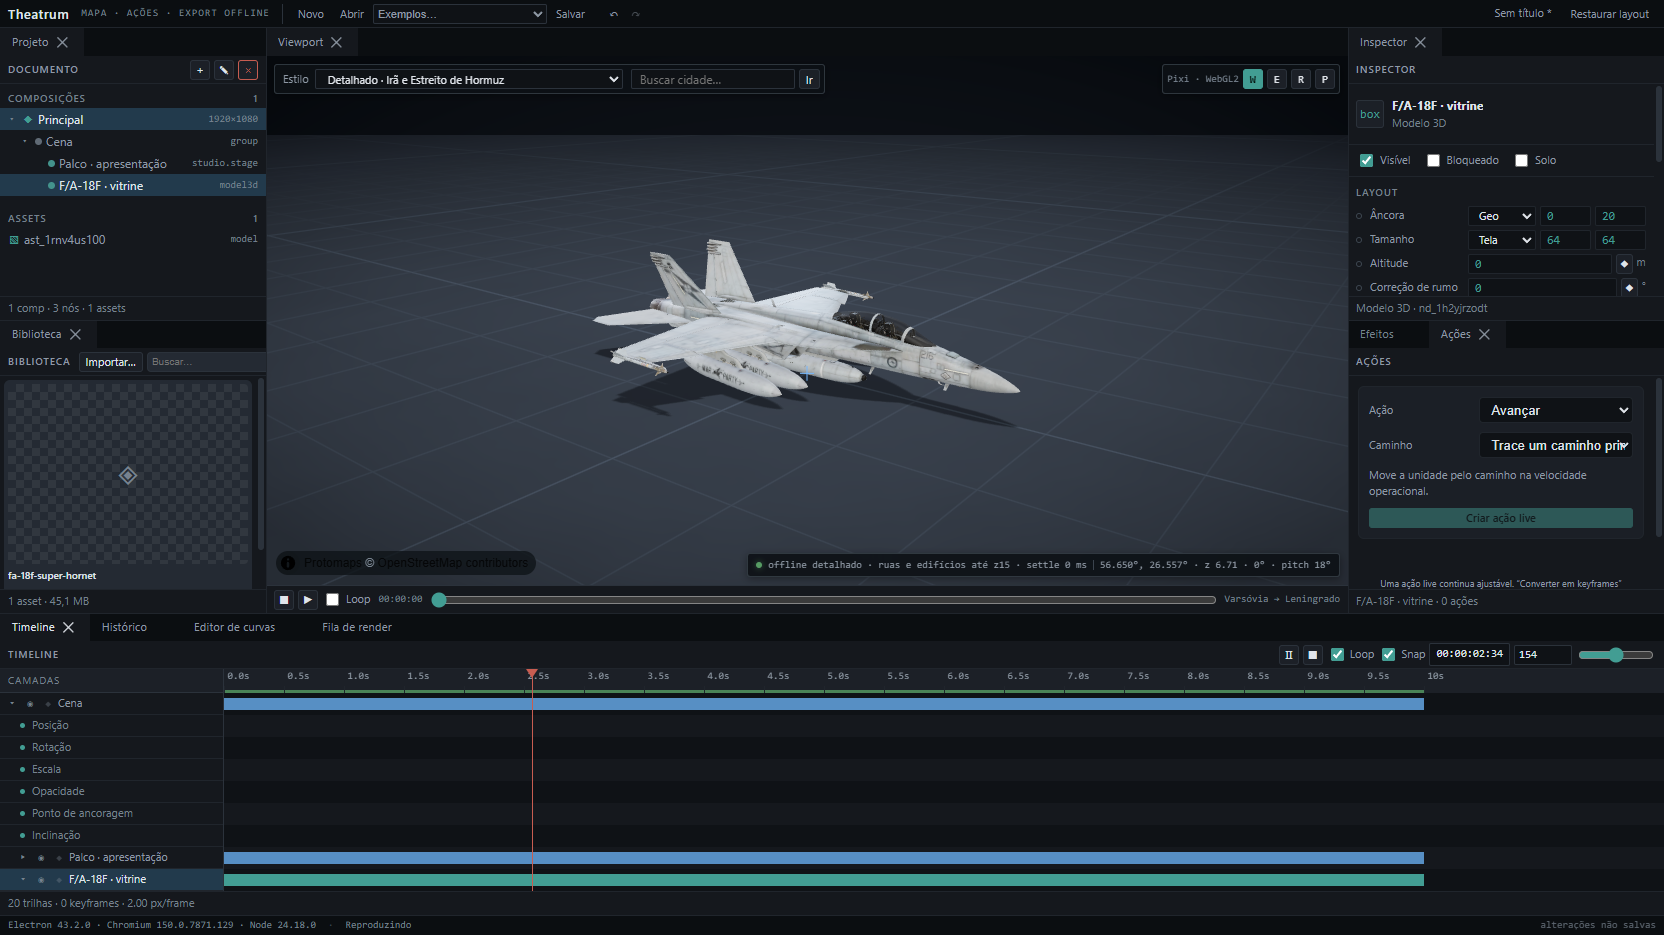
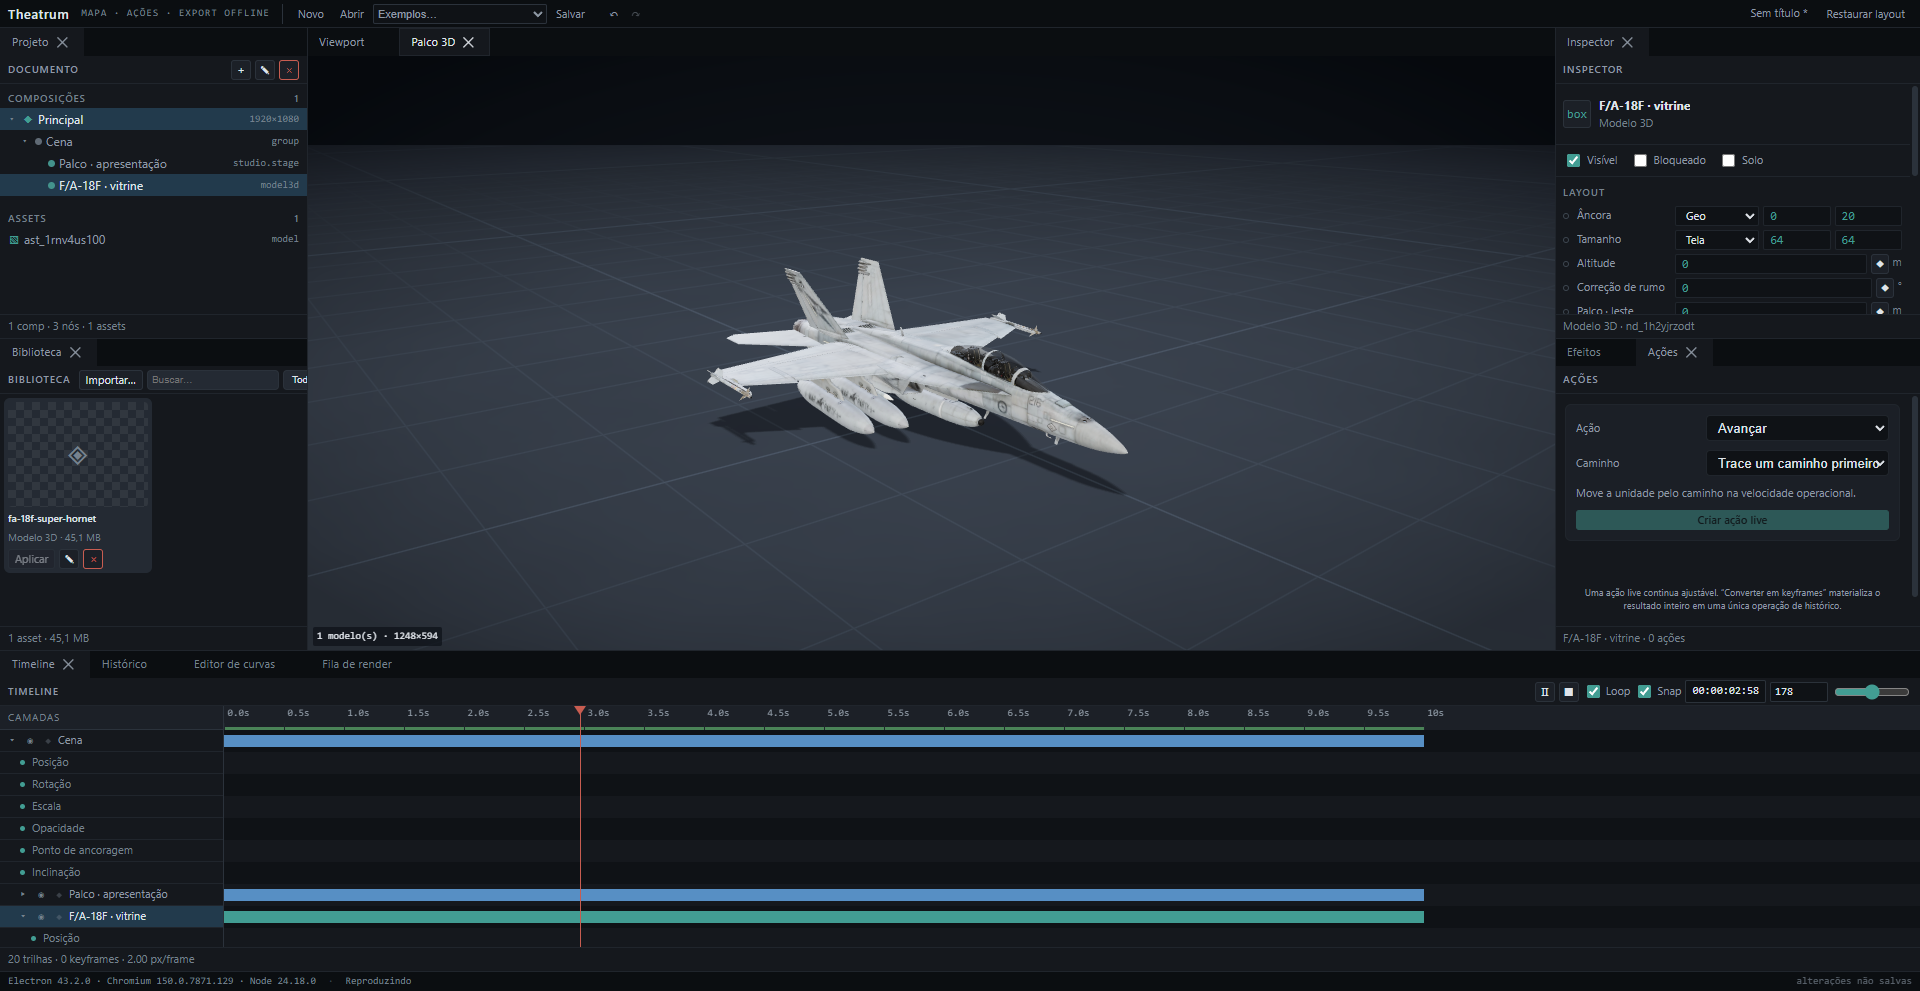
ADR-014 etapa 2: overlay Pixi proprio do palco, e os rotulos voltam
Fecha a regressao declarada na etapa 1. O painel do palco ganha a segunda
superficie — o overlay Pixi — e com ela os rotulos tecnicos (`label.callout`)
voltam a funcionar, agora no painel certo.

O quarto contexto WebGL do aplicativo. O ADR-012 mediu o orcamento: teto de 16 no
Chromium, 3,6 ms para criar, custo unico na abertura. Gastar um foi a escolha
consciente do ADR-014, porque a alternativa era o palco nao ter rotulo nenhum.

`studio-projector.ts`, novo, com as duas pecas que o layout do palco precisa:

- `createStudioProjectorPort` manda todo ponto geografico para FORA DA TELA, de
  proposito. A pergunta certa nao era "como projeto geografia no palco?" — e que
  geografia NAO EXISTE no palco. Um contorno de pais ou uma unidade ancorada em
  Kursk nao tem lugar numa vitrine de equipamento. O layout descarta (`culled`) o
  que cai fora do viewport, e no geo simplesmente nao desenha. A alternativa —
  inventar uma projecao plausivel — colocaria a Ucrania flutuando sobre o piso.
- `withStudioProjection` e o que faz o rotulo achar a asa do caca sem uma linha de
  codigo do lado dele: ele ja procura o alvo em `layout.layouts`, e aqui quem
  preenche essa entrada e a camera orbital. Isto morava no SceneOverlay como
  pos-processamento, corrigindo entradas que o projetor do mapa havia preenchido
  errado. Deixou de ser remendo: e o passe de projecao deste painel, no lugar dele.

Modelo atras da camera continua virando `culled` e nao posicao inventada —
[…]

diff --git a/apps/editor/src/panels/viewport/StudioViewport.tsx b/apps/editor/src/panels/viewport/StudioViewport.tsx
@@ -15,16 +15,30 @@
  * `SceneOverlay`: sem caneta, sem marquee, sem gizmo. No palco não se desenha
  * caminho no terreno.
  *
- * ETAPA 1 do ADR-014. Rótulos técnicos (`label.callout`), efeitos e filtros ainda
- * não desenham aqui — eles vivem no overlay Pixi, que continua no Viewport. É
- * regressão temporária declarada no ADR, e a etapa 2 a fecha.
+ * Duas superfícies, na ordem: o palco 3D no fundo, o overlay Pixi por cima. É o
+ * overlay que desenha os rótulos técnicos (`label.callout`) — e é por ele existir
+ * aqui, e não no Viewport, que o palco é um ambiente completo em vez de um fundo.
  */
 
 import { evaluate } from "@theatrum/animation";
 import { applySceneBehaviors, createBuiltinBehaviorRegistry } from "@theatrum/behaviors";
+import { mat2d, type Mat2D, type Vec2 } from "@theatrum/core-math";
+import {
+  createPixiRenderBackend,
+  createRenderer,
+  createScreenScene,
+  PREVIEW_SLOT_ORDER,
+  registerBuiltinRenderables,
+  RenderableRegistry,
+  type Renderer,
+} from "@theatrum/renderer";
+import { layoutScene } from "@theatrum/scene-graph";
+import type { Composition } from "@theatrum/schema";
 import { useEffect, useRef, useState, type ReactNode } from "react";
 import { useEditorSession } from "../../document/useEditorSession.js";
 import { Panel } from "../../ui/index.js";
+import { expandCalloutNodes } from "./callout-nodes.js";
+import { createStudioProjectorPort, withStudioProjection } from "./studio-projector.js";
 import {
   collectStudioModels,
   collectStudioStage,
@@ -36,6 +50,16 @@ import "./StudioViewport.css";
 /** Comportamentos são puros e sem estado: uma instância por painel serve. */
 const behaviorRegistry = createBuiltinBehaviorRegistry();
 
+/**
+ * Letterbox da composição no painel, igual ao Viewport: nó em espaço `comp` cai
+ * no mesmo lugar relativo nos dois ambientes, e um rótulo não pula de posição ao
+ * trocar de aba.
+ */
+function compositionToViewport(composition: Composition, viewport: Vec2): Mat2D {
+  const scale = Math.min(viewport[0] / composition.width, viewport[1] / composition.height);
+  return mat2d.scaling(scale, scale);
+}
+
 interface StudioDebugWindow extends Window {
   __theatrumStudio?: { readonly status: () => ReturnType<StudioSceneRuntime["status"]> };
 }
@@ -44,7 +68,11 @@ export function StudioViewport(): ReactNode {
   const session = useEditorSession();
   const containerRef = useRef<HTMLDivElement>(null);
   const canvasRef = useRef<HTMLCanvasElement>(null);
+  const pixiCanvasRef = useRef<HTMLCanvasElement>(null);
   const runtimeRef = useRef<StudioSceneRuntime | null>(null);
+  const rendererRef = useRef<Renderer | null>(null);
+  /** Sobe quando o Pixi termina de inicializar: o primeiro frame precisa dele. */
+  const [rendererRevision, setRendererRevision] = useState(0);
   const [size, setSize] = useState<readonly [number, number]>([0, 0]);
   /** Bump para repintar quando o GLB termina de carregar, fora do ciclo do React. */
   const [assetRevision, setAssetRevision] = useState(0);
@@ -76,6 +104,49 @@ export function StudioViewport(): ReactNode {
       runtimeRef.current = null;
       setActiveStudioRuntime(null);
       runtime.dispose();
+    };
+  }, []);
+
+  /**
+   * Overlay Pixi do palco — o quarto contexto WebGL do aplicativo.
+   *
+   * O [ADR-012](../../../../../docs/adr/ADR-012-studio-own-canvas.md) mediu o
+   * orçamento: teto de 16 no Chromium, 3,6 ms para criar, um custo único na
+   * abertura. O [ADR-014](../../../../../docs/adr/ADR-014-studio-own-panel.md)
+   * gastou um desses porque a alternativa era o palco não ter rótulo nenhum.
+   *
+   * `missingRenderable: "skip"` importa aqui mais que no Viewport: no palco há
+   * tipos de nó que legitimamente não desenham (contorno de país, rota geo), e
+   * eles não podem virar erro só por estarem no documento.
+   */
+  useEffect(() => {
+    const canvas = pixiCanvasRef.current;
+    if (canvas === null) return;
+    const registry = new RenderableRegistry();
+    const builtins = registerBuiltinRenderables(registry);
+    const renderer = createRenderer({
+      backend: createPixiRenderBackend({ preference: "webgl2" }),
+      registry,
+      missingRenderable: "skip",
+    });
+    let alive = true;
+    void renderer
+      .init({ overlay: { native: canvas } })
+      .then(() => {
+        if (!alive) return;
+        rendererRef.current = renderer;
+        setRendererRevision((value) => value + 1);
+      })
+      .catch((error: unknown) => {
+        if (alive) {
+          setStatus(`GPU indisponível · ${error instanceof Error ? error.message : String(error)}`);
+        }
+      });
+    return () => {
+      alive = false;
+      rendererRef.current = null;
+      renderer.dispose();
+      builtins.dispose();
     };
   }, []);
 
@@ -114,7 +185,38 @@ export function StudioViewport(): ReactNode {
     );
     const stage = collectStudioStage(pass.scene);
     const models = stage === null ? [] : collectStudioModels(pass.scene);
+    // O palco desenha ANTES do layout, porque é ele quem diz onde, em pixels,
+    // está cada modelo: a projeção sai da câmera orbital DESTE frame.
     runtime.render({ stage, models }, size[0], size[1]);
+
+    const renderer = rendererRef.current;
+    if (renderer !== null) {
+      const viewport: Vec2 = [size[0], size[1]];
+      const compToScreen = compositionToViewport(composition, viewport);
+      const projector = createStudioProjectorPort(viewport, stage?.fovDeg ?? 38);
+      const base = layoutScene(pass.scene, projector, {
+        compToScreen,
+        viewport: { x: 0, y: 0, width: size[0], height: size[1] },
+      });
+      const layout = stage === null ? base : withStudioProjection(base, models, runtime, viewport);
+      const composed = createScreenScene(pass.scene, layout, {
+        size: viewport,
+        pixelRatio: Math.max(1, window.devicePixelRatio),
+      });
+      // Rótulo com guia (7E.2) é o que a apresentação usa para falar do míssil e
+      // da cabine. O projetor geo entra como o do palco: um rótulo ancorado em
+      // geografia não tem alvo aqui, e é descartado em vez de inventado.
+      const callouts = expandCalloutNodes(
+        composed,
+        pass.scene,
+        layout,
+        session.document.paths,
+        compToScreen,
+        (lngLat) => projector.project([lngLat[0], lngLat[1]]),
+      );
+      renderer.render(callouts.scene, PREVIEW_SLOT_ORDER);
+    }
+
     const report = runtime.status();
     setStatus(
       stage === null
@@ -125,12 +227,20 @@ export function StudioViewport(): ReactNode {
             ? `carregando ${report.pending} modelo(s)…`
             : `${report.loaded} modelo(s) · ${size[0]}×${size[1]}`,
     );
-  }, [session.document, session.playheadFrame, session.selectedCompositionId, size, assetRevision]);
+  }, [
+    session.document,
+    session.playheadFrame,
+    session.selectedCompositionId,
+    size,
+    assetRevision,
+    rendererRevision,
+  ]);
 
   return (
     <Panel scroll={false}>
       <div ref={containerRef} className="studio-viewport">
         <canvas ref={canvasRef} className="studio-viewport__stage" aria-hidden="true" />
+        <canvas ref={pixiCanvasRef} className="studio-viewport__pixi" aria-hidden="true" />
         <p className="studio-viewport__status">{status}</p>
       </div>
     </Panel>

diff --git a/apps/editor/src/panels/viewport/studio-projector.ts b/apps/editor/src/panels/viewport/studio-projector.ts
@@ -1,0 +1,103 @@
+/**
+ * Projetor do palco, para o passe de layout do painel do Palco 3D.
+ *
+ * O layout precisa de um `ProjectorPort` para decidir onde cada nó cai em pixels.
+ * No mapa é o MapLibre; aqui não existe mapa, e a pergunta certa não é "como
+ * projeto geografia no palco?" — é **geografia não existe no palco**. Um contorno
+ * de país ou uma unidade ancorada em Kursk não têm lugar numa vitrine de
+ * equipamento.
+ *
+ * Então este projetor manda todo ponto geográfico para longe da tela, de propósito:
+ * o layout descarta (`culled`) o que cai fora do viewport, e nó geo simplesmente
+ * não desenha. É a resposta honesta. A alternativa — inventar uma projeção
+ * plausível — colocaria a Ucrânia flutuando sobre o piso do estúdio.
+ *
+ * Quem tem lugar aqui é nó em espaço `comp` (títulos, rótulos), que usa
+ * `compToScreen` e nunca passa por este projetor, e `model3d`, cuja posição de
+ * tela vem da câmera orbital via `withStudioProjection`.
+ */
+
+import type { ProjectorPort, ProjectorSnapshot } from "@theatrum/gis";
+import { mat2d, type Vec2 } from "@theatrum/core-math";
+import type { ScreenScene as LayoutScreenScene } from "@theatrum/scene-graph";
+import type { StudioModelState, StudioSceneRuntime } from "./studio-scene.js";
+
+/**
+ * Longe o suficiente para o layout descartar em qualquer viewport praticável, e
+ * finito o suficiente para não contaminar aritmética com `Infinity` — um `NaN`
+ * escapando daqui apareceria como nó invisível sem explicação, três camadas acima.
+ */
+const OFF_SCREEN = 1e7;
+
+export function createStudioProjectorPort(viewport: Vec2, fovDeg: number): ProjectorPort {
+  return {
+    project: () => [OFF_SCREEN, OFF_SCREEN],
+    unproject: () => [0, 0],
+    /**
+     * Escala aproximada do palco, para nó dimensionado em metros de terreno.
+     * Vale a altura da tela dividida pelo campo de visão em radianos — a mesma
+     * conta do `cameraToCenterDistance`, e boa o bastante para um caso que quase
+     * não ocorre: no palco o tamanho vem de `scaleMeters`, não de `size.ground`.
+     */
+    metersPerPixel: () => {
+      const halfFov = Math.max(0.01, (fovDeg * Math.PI) / 360);
+      return (2 * Math.tan(halfFov)) / Math.max(1, viewport[1]);
+    },
+    // Sem rotação de mapa a compensar: o que gira aqui é a câmera, e o ângulo
+    // dela já entra na projeção do modelo.
+    bearingToScreenAngle: (bearing: number) => bearing,
+    elevationAt: () => null,
+    snapshot: (): ProjectorSnapshot => ({
+      projection: "mercator",
+      center: [0, 0],
+      zoom: 0,
+      bearing: 0,
+      pitch: 0,
+      viewport: [viewport[0], viewport[1]],
+      tileSize: 512,
+    }),
+  };
+}
+
+/**
+ * Põe os `model3d` do palco no layout de tela, projetando a posição 3D deles.
+ *
+ * É o que faz um `label.callout` encontrar a asa do caça sem uma linha de código
+ * nova do lado do rótulo: ele já procura o alvo em `layout.layouts`, e aqui quem
+ * preenche essa entrada é a câmera orbital.
+ *
+ * Isto morava no `SceneOverlay` como pós-processamento — corrigia entradas que o
+ * projetor do mapa havia preenchido errado. Com o palco em painel próprio
+ * ([ADR-014](../../../../../docs/adr/ADR-014-studio-own-panel.md)) deixou de ser
+ * remendo: é o passe de projeção deste painel, no lugar dele.
+ *
+ * Modelo atrás da câmera vira `culled`, não uma posição inventada: projeção com
+ * w negativo devolve coordenada espelhada, e um rótulo apontando para o canto
+ * oposto da tela é pior do que rótulo nenhum.
+ */
+export function withStudioProjection(
+  layout: LayoutScreenScene,
+  models: readonly StudioModelState[],
+  studio: StudioSceneRuntime,
+  size: Vec2,
+): LayoutScreenScene {
+  if (models.length === 0) return layout;
+  const layouts = new Map(layout.layouts);
+  for (const model of models) {
+    const current = layouts.get(model.id);
+    if (current === undefined) continue;
+    const screen = studio.project(model.position, size[0], size[1]);
+    if (screen === null) {
+      layouts.set(model.id, { ...current, culled: true });
+      continue;
+    }
+    layouts.set(model.id, {
+      ...current,
+      matrix: mat2d.translate(screen[0], screen[1]),
+      anchorPx: screen,
+      bounds: { x: screen[0], y: screen[1], width: 0, height: 0 },
+      culled: false,
+    });
+  }
+  return { ...layout, layouts };
+}

diff --git a/apps/editor/src/panels/viewport/StudioViewport.css b/apps/editor/src/panels/viewport/StudioViewport.css
@@ -41,3 +41,17 @@
   /* Diagnóstico não recebe clique: o palco inteiro é área de câmera. */
   pointer-events: none;
 }
+
+/*
+ * Overlay Pixi do palco: por cima do chão 3D, e é ele que desenha os rótulos
+ * técnicos. Sem `pointer-events: none` ele engoliria o clique destinado à câmera.
+ */
+.studio-viewport__pixi {
+  position: absolute;
+  inset: 0;
+  z-index: 1;
+  display: block;
+  width: 100%;
+  height: 100%;
+  pointer-events: none;
+}
